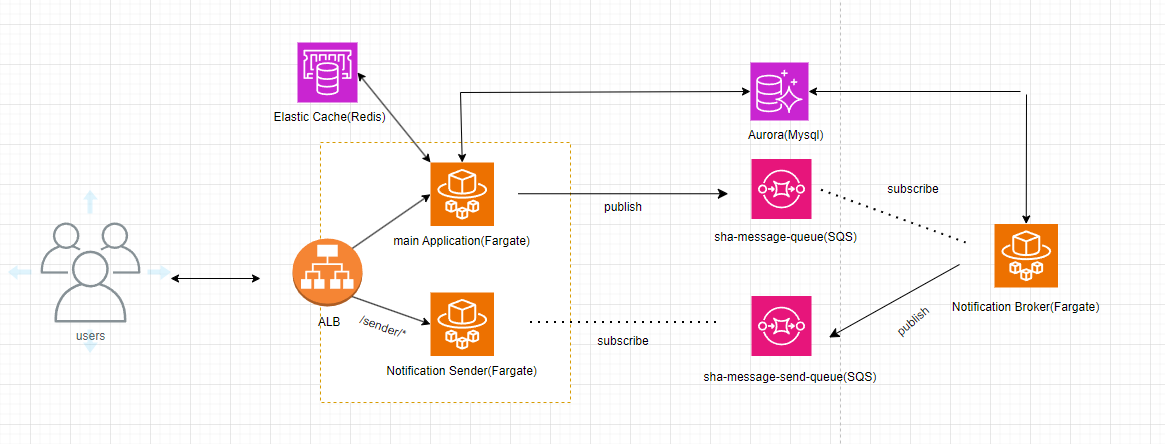
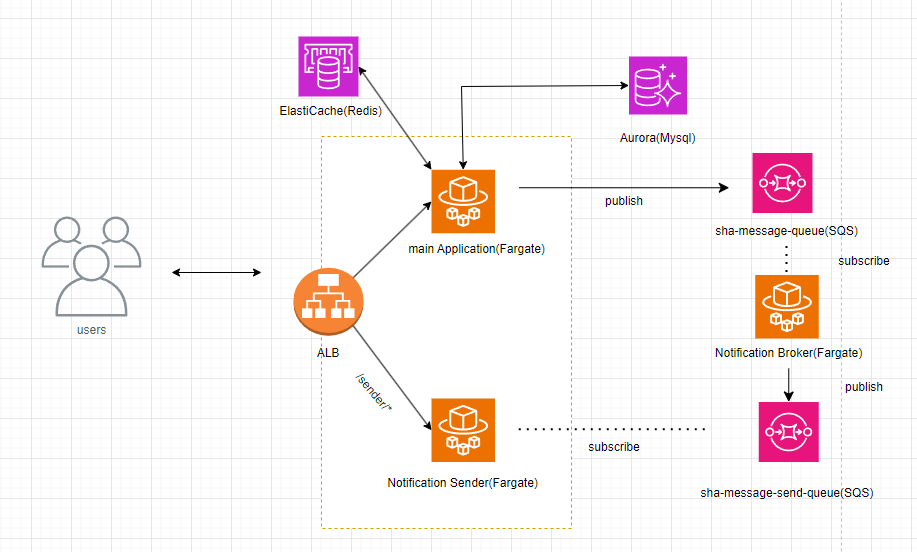
fix: Readme 파일 수정

diff --git a/README.md b/README.md
@@ -2,10 +2,7 @@
 
 ## 📌 프로젝트 목표
 
-- 경매 프로세스를 설계하고 구현합니다.
-
-
-- ```객체지향 설계원칙```에 따라 설계하며, 객체지향의 장점을 살린 코드를 작성합니다.
+- ```객체지향 설계원칙```에 따라 ```RESTful API``` 를 설계 합니다.
 
 
 - ```TDD```개발론을 적용하며, 테스트의 중요성에 대해 학습합니다.
@@ -14,24 +11,58 @@
 - ```대용량 트래픽과 동시성에 대해 고려```하며 개발합니다.
 
 
-- ```실시간```으로 사용자에게 알림을 전달하는 서비스를 구현합니다.
-
-
-- ```RESTful API```를 설계를 목표로 합니다.
-
-
 - 새로운 커밋이 발생할 때 마다 ```코드리뷰```를 통해 ```리팩토링```이 필요한 부분을 찾아내고, 개선합니다.
+
+---
+
+## ✏프로젝트 특징
+
+구현하고 싶은 기능
+
+사용자가 참여하고 있는 경매 누군가 입찰 했을 때,
+경매에 참가한 사용자들에게 새로운 입찰 발생 메시지를 보내고,
+접속중인 사용자에게는 실시간으로 알림을 보내는 기능을 구현하고자 했습니다.
+
+문제
+
+- 새로운 입찰 발생 메시지를 보내는 작업은 DB에 접근 해 Insert 쿼리 호출 해야하고,
+  실시간 알림을 발송하기 위해 Websocket 을 사용해 접속한 대상을 체크해 알람을 보내야 했습니다.
+  경매 참여자가 증가할 수록, 입찰 로직 수행시간 보다 메시지와 실시간 알림을 보내기위한 대기시간이 길어졌습니다.
+
+해결방안 및 결과
+
+- 경매 참여자가 많아질 경우에도 입찰 로직의 수행시간을 보존하고자 멀티모듈을 활용, 입찰 로직을 수행하는 서버와 경매 알림 로직을 수행하는 서버를 분리해 수행하도록 했습니다.
+    - 경매 참여자가 많아질 경우에도, 경매 등록 로직은 100ms 이내로 수행될 수 있습니다.
+    - 핵심 로직(경매) 이외 문제가 발생하더라도, 메인서버의 안정성을 보장할 수 있습니다.
+    - 서버 확장이 필요할 때, 트래픽이 몰리는 특정 서버에 대해서만 확장이 가능해 비용 효율성을 높일 수 있습니다.
+    - 기능변경 및 개선 작업이 이루어질 때, 다른서버에 미치는 영향을 최소화할 수 있습니다.
+
+---
+
+문제
+
+- 한 가지 기능을 위해, 여러개의 서버에서 작업이 이루어져야 했습니다.
+- 서버가 물리적으로 결합되어 있어, 외부에서 서버의 구조를 파악할 수 있었습니다.
+- 서버가 다운되거나 많은 요청이 몰리더라도, 메시지 손실이 발생할 수 있었습니다.
+
+해결방안 및 결과
+
+- 서버의 연결을 메시지 큐(AWS SQS)를 통해 발행, 구독 하도록 했습니다.
+    - 여러 서버에서 작업이 비동기적으로 이루어 질 수 있어, 시스템의 처리량을 증가시키고 사용자에게 빠른 서비스를 제공할 수 있습니다.
+    - 각 서버가 물리적 결합이 아닌 간접적으로 통신되므로, 외부에서 구조를 파악할 수 없게 해 보안적으로 안전하게 유지할 수 있습니다.
+    - 서버가 다운되거나 많은 요청이 몰리더라도, 큐를 통해 메시지가 관리되어, 메세지 손실 없이 안정적으로 처리할 수 있습니다.
+
+---
 
 ## 💡 중고거래 옥션 서버 구조도
 
 ![img_server_structure.png](img_server_structure.png)
 
 - ```ECS Fargate```를 이용해 Main, Sender, Broker 3개의 서비스를 띄우고, ```ALB``` 설정을 통해 /sender/* 로 요청 되는 건에 대해서는 Notification
-  Sender
-  어플리케이션으로, 나머지 요청은 Main 어플리케이션으로 요청되도록 구성했습니다.
+  Sender 어플리케이션으로, 나머지 요청은 Main 어플리케이션으로 요청되도록 구성했습니다.
 
 
-- Redis 서버는 ```Elastic Cache``` 를 활용하며, Main 서버에서의 로그인 세션 공유, 캐싱처리, 경매 등록 시 동시성 제어를 위한 Lock 으로 사용하고 있습니다.
+- Redis 서버는 ```ElastiCache``` 를 활용하며, Main 서버에서의 로그인 세션 공유, 캐싱처리, 입찰 시 동시성 제어를 위한 Lock 으로 사용하고 있습니다.
 
 
 - AWS SQS를 활용해 Main 서버와 Broker 서버 간의 메시지 전달, Sender 서버와 Broker 서버 간의 메시지 전달을 구현했습니다.
@@ -40,12 +71,12 @@
 
 ## 📌 경매요청 시퀀스 다이어그램
 
-![img_server_structure.png](img_auction_sequence.png)
+![img_bidding_sequence.png](img_bidding_sequence.png)
 
 - 로그인 시, 고객은 Sender 서버와 ```Websocket``` 을 통해 연결상태를 유지합니다.
 
 
-- 고객이 경매 요청 시, Main 서버에서는 해당 요청을 받아 경매를 등록하고, AWS SQS(sha-message-queue)에 경매 정보 메시지를 Publish 합니다.
+- 고객이 입찰 시, Main 서버에서는 해당 요청을 받아 입찰로직을 수행하고, AWS SQS(sha-message-queue)에 경매 정보 메시지를 Publish 합니다.
 
 
 - Broker 서버에서는 AWS SQS(sha-message-queue)에 메시지를 받았을 때, 경매 참여자의 메시지함에 메시지를 추가하고, 알람을 위한 정보를 AWS SQS(
@@ -71,49 +102,3 @@
 - 업로드 된 Docker 이미지를 ```ECS Fargate``` 에 배포하고, ```ALB``` 를 통해 서비스를 제공합니다.
 
 ---
-
-## 🖊 깃 브랜치 전략
-
-- Github-Flow 를 이용하여 브랜치를 관리합니다.
-
-
-- 새로운 기능을 추가할 때는 main 브랜치에서 브랜치를 생성하여 작업합니다.
-
-
-- 깃 Issues 를 통해 각 브런치별 내용들을 카테고리 별로 관리합니다.
-
-
-- 브랜치 이름은 커밋의 종류/#관련된 ISSUE number/해당내용 ex) feat/#1/회원가입 기능 구현 으로 작성합니다.
-
-```
-- feat : 새로운 기능에 대한 커밋
-- fix : 버그 수정에 대한 커밋
-- refactor : 코드 리팩토링에 대한 커밋
-- test : 테스트 코드 수정에 대한 커밋
-```
-
-## ✏프로젝트 특징
-
-- 대용량 트래픽을 고려하기 위해, 멀티모듈을 활용해 어플리케이션을 분리했습니다.
-    - 경매 참여자가 많아질 경우에도, 경매 등록 로직은 100ms 이내로 수행될 수 있습니다.
-    - 핵심 로직(경매) 이외 문제가 발생하더라도, 메인서버의 안정성을 보장할 수 있습니다.
-    - 서버 확장이 필요할 때, 트래픽이 몰리는 특정 서버에 대해서만 확장이 가능해 비용 효율성을 높일 수 있습니다.
-    - 기능변경 및 개선 작업이 이루어질 때, 다른서버에 미치는 영향을 최소화할 수 있습니다.
-
-
-- 서버의 연결을 메시지 큐(AWS SQS)를 통해 발행, 구독 하도록 했습니다.
-    - 여러 서버에서 작업이 비동기적으로 이루어 질 수 있어, 시스템의 처리량을 증가시키고 사용자에게 빠른 서비스를 제공할 수 있습니다.
-    - 각 서버가 물리적 결합이 아닌 간접적으로 통신되므로, 외부에서 구조를 파악할 수 없게 해 보안적으로 안전하게 유지할 수 있습니다.
-    - 서버가 다운되거나 많은 요청이 몰리더라도, 큐를 통해 메시지가 관리되어, 메세지 손실 없이 안정적으로 처리할 수 있습니다.
-
-
-- Redis를 활용해 시스템을 개선 했습니다.
-    - 메인 서버가 여러개의 서버로 확장되더라도, Redis를 통해 세션 정보를 공유함으로써 사용자 로그인 상태를 유지할 수 있습니다.
-    - Redis 캐시를 활용하여 자주 사용되는 데이터의 조회 속도를 대폭 향상시켰습니다.
-    - Redisson 라이브러리를 활용하여 Lock 메커니즘을 구현해, 경매가 동시에 발생하더라도 데이터 일관성과 안정성을 보장할 수 있습니다.
-
----
-
-## ERD
-
-![img_erd.png](img_erd.png)
